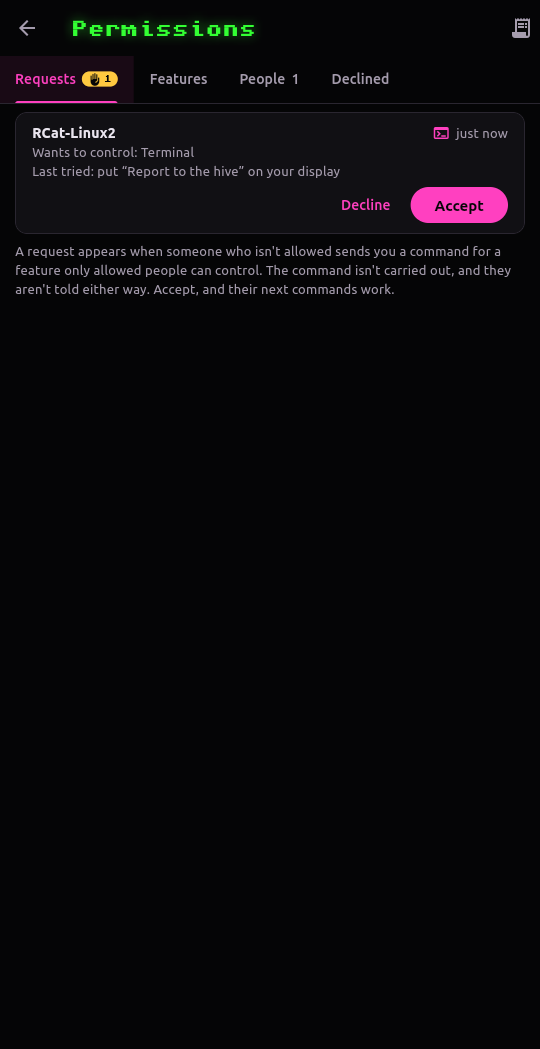
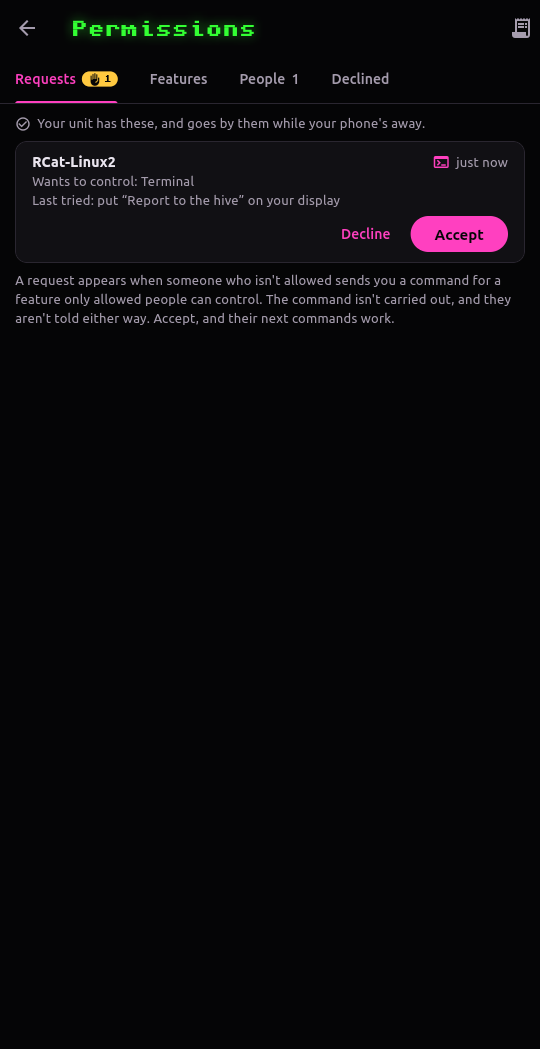
Docs: permissions kept by the app and given to the unit, two groups, and the unit's read-only Hive pages

Changed region(s): [[0.0296, 0.0915, 0.9481, 0.3051]]

diff --git a/docs/features/toys.md b/docs/features/toys.md
@@ -25,10 +25,9 @@ Left to right:
 - **Control**: a ring around the edge for each of the screen's controls, with the level on its knob.  Drag a knob around its ring to set the level.  Only the knobs respond, so you can swipe from anywhere else.  To start with there's a ring for each channel a connected toy follows, up to three, labelled *V1*, *V2* and so on.  Your app can lay them out differently: fewer rings, your own labels, or one ring driving several channels together (see [Screen controls](#screen-controls)).  The toy's name (or how many are connected) is in the middle.  **STOP** stops every toy, and any pattern or reaction, as soon as you touch it.
 - **Devices**: turn your toys on and they show up here while it's on screen.  Tap one to connect (it turns green), or tap it again to stop it and disconnect.  Bluetooth only starts the first time it's needed.
 - **Patterns**: tap a pattern to play it, and tap it again to stop it.  The arrows at the top pick where it plays: on every channel, or on one control's channels.  **-**/**+** at the bottom set the speed.  While a pattern plays, each ring on the Control page sets how high its channels go, and a thin line inside the ring shows the level as it plays.  Six patterns are built in, and you can add your own (see [Patterns on the SD card](#patterns-on-the-sd-card)).
-- **React to**: drives every channel from your voice or how you move, on top of any pattern.  *Voice* follows how loud you talk.  *Moving* runs while you move and stops soon after you stop.  *Still* runs only once you've held still with the display upright for a second (set the display's [Rotation](settings.md#rotation) first, so upright is right).  *Motion* gets stronger the more you move, and *Tilt* the further you tilt from upright.  Tap the one that's on to turn it off.  The line under the list shows what it's sensing.  As with patterns, the rings on the Control page set how high each channel goes.  **STOP** turns the reaction off too.
+- **React to**: drives every channel from your voice or how you move, on top of any pattern.  *Voice* follows how loud you talk.  *Moving* runs while you move and stops soon after you stop.  *Still* runs only once you've held still with the display upright for a second (set the display's [Rotation](settings.md#rotation) first, so upright is right).  *Motion* gets stronger the more you move, and *Tilt* the further you tilt from upright.  Tap the one that's on to turn it off: channels with no pattern then go back to 0.  Others can set different channels to different reactions from the app, and each one that's followed is lit.  The line under the list shows what it's sensing.  As with patterns, the rings on the Control page set how high each channel goes.  **STOP** turns the reaction off too.
 - **Options**: *Hold*: on, a control keeps its level when you let go of its knob; off, it springs back to 0.
-- **Others** (*Hive Commands*): who may send commands to your toys over the [comms](comms.md) (see [Commands from others](#commands-from-others)).  *Off*, *Ask* or *Accept* says whose commands are done: nobody's, those you've allowed, or anyone's.  Tap someone to allow them (they turn green, with a tick), or tap again to stop allowing them; hold them to take them off the list.  The line at the bottom says who sent the last command that was done.
-- **Ignore** (the last): commands to ignore whoever they're from: *Broadcasts* (and those to the open direct channel) and those *To a whole channel*.
+- **Others** (*Hive Commands*, the last): who may send commands to your toys over the [comms](comms.md) (see [Commands from others](#commands-from-others)), as your app has set it: *Off*, *Ask* (those you've allowed, listed with a tick) or *Anyone*, and what's ignored.  **Turn off** stops anyone's commands at once, without your phone; switch it back on in the app.  The line at the bottom says who sent the last command that was done.
 
 ## Screen controls
 
@@ -40,17 +39,19 @@ The round screen only has room for a few rings, so what they do is set up in you
 
 Others in your hive can send commands to your toys with **HiveMind Control** in the DroneLab app (see [HiveMind Control](../app/control.md)): stop, set channels to a level (several at once, moving together), play a pattern on channels, change the patterns' speed, or have channels react (*React to*) to your own voice or movement, as your board senses them.  Which channel each of your toys follows, and the screen's controls, are set in the app's [Setup: Toys](../app/control.md#setup-toys).  They come over the Mumble server, through your phone, or board to board over [direct mode](comms.md#direct-mode).  Your board does them as if you'd used its own controls, and they stay set until they're changed: **STOP**, on the Control page, stops them as it stops everything else, and a STOP sent by someone else stops reactions too.
 
-Whose commands are done is up to you, with **Off**, **Ask** or **Accept** on the *Hive Commands* page, or under *From others* in the remote's *Toys* tab.  The app's [Permissions](../app/permissions.md) has the same settings, as *Nobody*, *Allowed* and *Anyone*, with requests to accept or decline and a log of every command:
+Whose commands are done is up to you, in the app's [Permissions](../app/permissions.md), as *Nobody*, *Allowed* or *Anyone*, with requests to accept or decline and a log of every command.  The app gives them to your board, which keeps the last it was given and goes by them while your phone's away (see [Your phone and your unit](../app/permissions.md#your-phone-and-your-unit)):
 
-- **Ask**, to start with: only those you've allowed are obeyed.  The first time someone sends you a command, they're added to the *Permissions* list, not allowed, and you tick them there.  Nothing is done until you've said yes.
-- **Accept**: everyone's commands are done, allowed or not.  Anyone new is still added to the list, so you can see who's been sending, and tick them for when you go back to Ask.
-- **Off**: commands are ignored, and nobody's added.  The list remembers up to 16 people, kept when the board's switched off.
+- **Ask** (*Allowed* in the app), to start with: only those you've allowed are obeyed.  The first time someone else sends you a command, your app makes it a request for you to accept or decline.  Nothing is done until you've said yes, and with your phone away, nothing is.
+- **Anyone**: everyone's commands are done, allowed or not.
+- **Off** (*Nobody*): commands are ignored.  **Turn off** on the *Hive Commands* page sets it here, on the board.
+
+Your board keeps up to 32 people from your app: those allowed something, and those you've muted.
 
 Each kind of thing others can control has its own permission and ticks: Vibe toys, and the [Terminal](terminal.md#messages-from-others) on your display, so someone can be allowed words on your display without being allowed near your toys.  More kinds are planned for HiveMind Control (e-stim, machines, and pictures and sounds on your display), each with its own permission too.  None of them is ever open to everyone to start with.
 
-The *Ignore* page, after it (and the same switches under *From others* in the remote), ignores some commands whoever they're from: **Broadcasts**, sent to everyone who can hear the sender (with those to the channel on the open direct channel, which anyone nearby can hear), and those **To a whole channel**.  With both on, only commands sent to you alone get through.  And anyone you've muted in the app is ignored, whatever's set here.
+Two more settings in Permissions ignore some commands whoever they're from: **Broadcasts**, sent to everyone who can hear the sender (with those to the channel on the open direct channel, which anyone nearby can hear), and those **To a whole channel**.  With both on, only commands sent to you alone get through.  And anyone you've muted in the app is ignored, whatever's set here.
 
-Someone's known by their identity, not their name: their DroneLab app makes a key pair the first time it runs and signs every command with it, and your board checks the signature (or your app does, for those that come over the server).  The list shows the first characters of their key beside their name, and it's the same person whether they're heard in cloud or direct mode.  Someone new using a name already on the list is marked ⚠: it's someone else with that name.  A command can't be recorded and played back later either, as each is numbered and an old one's dropped.
+Someone's known by their identity, not their name: their DroneLab app makes a key pair the first time it runs and signs every command with it, and your board checks the signature (or your app does, for those that come over the server).  It's the same person whether they're heard in cloud or direct mode, and the app marks someone new using a name it already knows with ⚠: it's someone else with that name.  A command can't be recorded and played back later either, as each is numbered and an old one's dropped.
 
 Your board also tells the others what you let them control: Vibe toys while they're on *Ask* or *Accept* and a toy is connected, with which channels your toys follow, and the [Terminal](terminal.md#messages-from-others) while it isn't *Off*.  It's said in its hello over direct mode, and by your app over the server, for their apps to grey out what you don't allow (see [What others see](../app/permissions.md#what-others-see)).  It doesn't say who you've allowed.
 

diff --git a/docs/app/control.md b/docs/app/control.md
@@ -28,7 +28,11 @@ The Vibe tab has three sections:
 
 - **LEVELS**: a slider for each channel, from 0 to 20.  20 is each output's top, whatever it is.  **Gang channels** moves several together: pick them, and one *GANG* slider drives them all, sent as one command, so they change at the same moment.  The others keep their own sliders.  The levels also set how high Patterns and React go.
 - **PATTERNS**: plays a pattern, in step, on the channels picked under *ON* (all those shown, to start with), if their unit has one by that name: the six built-in ones always do (*Wave*, *Pulse*, *Heartbeat*, *Climb*, *Surge*, *Wander*), and patterns from an SD card only if theirs has one with the same name.  The list is your unit's.  *SPEED* runs them from 25% to 300%.
-- **REACT**: the channels picked under *ON* follow **their own** voice or movement, as their unit senses it: *VOICE*, *MOVING*, *STILL*, *MOTION* or *TILT* (see [React to](../features/toys.md) for what each does).  It keeps going until it's changed or stopped.
+- **REACT**: the channels picked under *ON* follow **their own** voice or movement, as their unit senses it: *VOICE*, *MOVING*, *STILL*, *MOTION* or *TILT* (see [React to](../features/toys.md) for what each does).  It keeps going until it's changed or stopped.  Tap the one that's on to turn it off: channels with no pattern left go back to 0.
+
+<img src="../images/app/control_groups.png" width="300" alt="Patterns with Two groups on: group B, on V3, plays Pulse, while group A plays Wave on the other channels">
+
+**Two groups**, above *ON* in Patterns and React, splits the channels into **GROUP A** and **GROUP B**, each with its own pattern and reaction: say a *Wave* on V1 and V2 while V3 follows their *VOICE*.  Pick a group, then its channels; a channel is in one group at a time, and moving one into a group gives it that group's pattern and reaction.  A dot on a group's tab means it's playing or reacting.  Turning *Two groups* off puts group B's channels back with group A's.
 
 What you set stays set on their toys until it's changed or stopped, even once you've closed it.  Each command is noted in your conversation with them, and in theirs with you, with its channels: *set your toys on V1+V2 to 8*.  Each one is sent again a moment later, in case the first was lost.  Over the server, it needs a Mumble server from version 1.4 on.
 
@@ -50,7 +54,7 @@ Setup's **Toys**, under *Unit*, sets up your own toys for HiveMind Control.  It'
 
 <img src="../images/app/setup_toys.png" width="300" alt="Setup's Toys: an Edge on V1 and V2, a Nora vibrating on V1 and rotating on V3, and screen controls V1, V2 and V3">
 
-- **Channels**: each toy the unit has found, with **Connect** or **Disconnect**, and under it each of its outputs (each motor, the air pump and so on) with the channel it follows: **V1** to **V6**, or **None**, which leaves it to your own controls.  What anyone sends on V1 drives every output on V1, so two toys on one channel move together.  To start with, a toy's first output follows V1, its second V2.  The unit remembers it, by toy.  **Look for toys** finds toys turned on near the unit.  The line under them says which channels others can control.
-- **Screen controls**: the rings around your unit's [Toys](../features/toys.md#screen-controls) screen.  **Lay them out** for up to three, each with a label and the channels it drives together, so one ring can run V1 and V2 at once; **Save** sends them to the unit.  **One per channel** goes back to a ring for each channel a connected toy follows, as it starts.
+- **Channels**: each toy the unit has found, with **Connect** or **Disconnect**, and under it each of its outputs (each motor, the air pump and so on) with the channel it follows: **V1** to **V6**, or **None**, which leaves it to your own controls.  What anyone sends on V1 drives every output on V1, so two toys on one channel move together.  To start with, a toy's first output follows V1, its second V2.  The app keeps it, by toy, and gives it to your unit with your [permissions](permissions.md#your-phone-and-your-unit), so it holds while your phone's away.  **Look for toys** finds toys turned on near the unit.  The line under them says which channels others can control.
+- **Screen controls**: the rings around your unit's [Toys](../features/toys.md#screen-controls) screen.  **Lay them out** for up to three, each with a label and the channels it drives together, so one ring can run V1 and V2 at once; **Save** keeps them, and sends them to the unit.  **One per channel** goes back to a ring for each channel a connected toy follows, as it starts.
 
-The same mapping is under *Devices* in the [Remote](remote.md) tab's *Toys*.
+The [Remote](remote.md) tab's *Toys* shows the channel each output follows under *Devices*.

diff --git a/docs/app/permissions.md b/docs/app/permissions.md
@@ -1,6 +1,6 @@
 # Permissions
 
-Others in the hive can control parts of your unit: put words on its [Terminal](../features/terminal.md), or run your [Vibe toys](../features/toys.md).  **Permissions** is where you choose who can, see who's asking, and look back at every command that came.  The choices are kept on your unit, so they work whether or not your phone's with you.
+Others in the hive can control parts of your unit: put words on its [Terminal](../features/terminal.md), or run your [Vibe toys](../features/toys.md).  **Permissions** is where you choose who can, see who's asking, and look back at every command that came.  The choices are kept in the app, which gives them to your unit: your unit goes by the last it was given, so they work whether or not your phone's with you.
 
 Open it from *Setup*, or from the [links sheet](connecting.md#the-links-sheet) that pulls down from the status strip.  When someone's asking, a yellow raised hand with a count shows on the [status strip](README.md#the-status-strip), on the links sheet and in Setup.
 
@@ -25,11 +25,11 @@ Two more switches ignore some commands whoever they're from, allowed or not:
 
 With both on, only commands sent to you alone get through.
 
-**People** is everyone on your unit's list: anyone who's sent you a command, or been allowed something.  Switch someone on to let them control the feature.
+**People** is everyone on your list: anyone who's sent you a command, or been allowed something.  Switch someone on to let them control the feature.
 
 ## People
 
-Everyone on your unit's list, with icons for what each is allowed.  Tap someone to choose everything they can control at once.  The remove button takes them off the list and allows them nothing: if they send you a command again, it comes in as a new request.
+Everyone on your list, with icons for what each is allowed.  Tap someone to choose everything they can control at once.  The remove button takes them off the list and allows them nothing: if they send you a command again, it comes in as a new request.
 
 People are known by their identity, not their name: their app signs each command with a key only it has.  So it's one entry whether they reach you over the server or direct, and nobody can pass as someone you've allowed by taking their name.  Someone using a name another person had first is marked ⚠.
 
@@ -44,7 +44,7 @@ A request appears when someone who isn't allowed sends you a command for a featu
 
 <img src="../images/app/permissions_accept.png" width="300" alt="Allow Hal to control: Vibe ticked, Terminal not, and Allow all or Allow">
 
-A request is only made while the app's linked to your unit.  One is taken back by itself if you allow them on the unit, or set the feature to *ANYONE*.
+A request is only made while the app's linked to your unit: with your phone away, commands from people you haven't allowed simply aren't carried out.
 
 When one comes in:
 
@@ -82,6 +82,10 @@ Each unit tells the others what its wearer lets others control: over the server 
 
 On someone's card ([Voice](voice.md#whos-there)), *Lets others control* shows an icon for each.  Tap it for the whole list: *Anyone can control it*, *Only people they allow*, or *Not available*.  See [HiveMind Control](control.md#sending) for how it's used.
 
-## On the unit and the remote
+## Your phone and your unit
 
-The same settings are on the unit itself, on each feature's *Others* pages (the Toys feature's *Hive Commands*, the Terminal's *Hive Messages*), and under *From others* in the [Remote](remote.md) tab.  They're one set of settings, kept on the unit: change them anywhere and the others follow.
+Your permissions, who you've muted, and how your toys are [set up](control.md#setup-toys) are kept in the app, and sent to your unit whenever they change and each time it connects.  The unit keeps the last it was given and goes by them on its own, so commands still work while your phone's away.  The line at the top of Permissions says whether your unit has them: *Your unit has these*, *Sending these to your unit*, or *Kept on your phone* while it isn't connected.
+
+On the unit itself, each feature's *Others* page (the Toys feature's *Hive Commands*, the Terminal's *Hive Messages*) shows its setting and who's allowed, but you change them here.  The one thing you can do on the unit is **Turn off**: it stops that feature taking anyone's commands straight away, without your phone.  The app picks that up as soon as it's connected, and you switch it back on here.
+
+A new phone, or the app installed again, takes on the unit's permissions the first time it connects, rather than starting afresh.

diff --git a/docs/features/phone-remote.md b/docs/features/phone-remote.md
@@ -12,9 +12,9 @@ The *WiFi Hotspot Remote* page in [Settings](settings.md) lets people run the di
 The page has five tabs:
 
 - **Screen**: what's on the display now, with arrows to step through every page.  Under them, the [Visualizer](visualizer.md)'s styles, to switch to one and show it.  Then every feature's pages are listed, to jump straight to one.
-- **Toys**: a slider for each of the screen's [controls](toys.md#screen-controls), the patterns and their speed, the reactions, a list of toys to connect, with the [channel](toys.md#channels) each output follows, and a big **STOP** at the bottom that stops every toy the moment it's touched.  *From others* says whose commands your devices take over comms, *Off*, *Ask* (those allowed) or *Accept* (anyone), whether to *Ignore broadcasts* or *Ignore channel-wide* ones, and lists who's sent them (see [Commands from others](toys.md#commands-from-others)).
+- **Toys**: a slider for each of the screen's [controls](toys.md#screen-controls), the patterns and their speed, the reactions, a list of toys to connect, with the [channel](toys.md#channels) each output follows, and a big **STOP** at the bottom that stops every toy the moment it's touched.
 - **Sound**: the voice effect, with *Play on speaker*, the presets, *Effect Volume* as a slider with buttons to step it by 1% or 5%, and *Loud room*.  Then the [voice ring](voice-ring.md), on or off and its color.  Under it, the sound player: the track playing, play and pause, the next and last tracks, a bar to move through the track, its volume, the repeat modes, *Play at startup*, and every track, to play one with a tap.
-- **Terminal**: type a message and *Send* it (or press Enter) to show it on the Terminal.  *Switch to it* (on to start with) brings the Terminal on screen when you send.  *Add a line* puts the message under what's there instead of replacing it, dropping the oldest lines when it's full.  *Clear* empties it, and *Letter size* picks how big it's shown.  The last few messages are listed under it, to send again with a tap.  *From others* says who may put words on it over comms, *Off*, *Ask* or *Accept*, and which to ignore (see [Messages from others](terminal.md#messages-from-others)).
+- **Terminal**: type a message and *Send* it (or press Enter) to show it on the Terminal.  *Switch to it* (on to start with) brings the Terminal on screen when you send.  *Add a line* puts the message under what's there instead of replacing it, dropping the oldest lines when it's full.  *Clear* empties it, and *Letter size* picks how big it's shown.  The last few messages are listed under it, to send again with a tap.
 - **Setup**, always the last tab: the display's [Settings](settings.md).  The battery's charge and how long the display's been on, then the brightness, the rotation, and what it shows at startup, and *Start at power-up* for the remote itself (see below).  The Battery Log and switching the WiFi Hotspot Remote off are only on the display: so nobody can forget the board's battery curve, or turn the remote off from under the phones.
 
 The display and the phones control the same things, so each shows what the others do.  Up to four phones can join at once, and the title on the display says how many have.  Adding `#screen`, `#toys`, `#sound`, `#term` or `#setup` to the page's address opens that tab.

diff --git a/docs/features/terminal.md b/docs/features/terminal.md
@@ -18,14 +18,8 @@ It can be picked to show when the display turns on, in [Settings](settings.md#st
 
 Others in your hive can put words on your Terminal from the DroneLab app, from their conversation with you, or with a channel you're on, in its [Text](../app/text.md#their-display) tab, in cloud or [direct mode](comms.md#direct-mode).  They have the same choices you do on the remote: the letter size, adding a line or replacing what's there, switching the display to the Terminal or not, and clearing it.  It shows just as they typed it, with no name, but their name is noted in your app's conversation with them, and on the *Hive Messages* page.
 
-You choose who can, on the Terminal's second page, *Hive Messages*, with **Off**, **Ask** or **Accept**:
+You choose who can in the app's [Permissions](../app/permissions.md), with requests to accept or decline and a log of every command: **Ask** (*Allowed*), to start with, only those you've allowed; **Anyone**; or **Off** (*Nobody*).  It can also ignore **Broadcasts**, sent to everyone who can hear the sender (with those to the channel on the open direct channel, which anyone nearby can hear), and those **To a whole channel**.  Anyone you've muted in the app is ignored too.  Your unit keeps the last settings your app gave it, so they hold while your phone's away.
 
-- **Ask**, to start with: only those you've allowed.  Anyone new is added to the list under it, not allowed, and what they send doesn't show.  Tap them to allow them (or tap again to stop), or hold them to take them off the list.
-- **Accept**: anyone's words show.  New people are still added to the list.
-- **Off**: nobody's words show, and nobody's added.
-
-The page after it, *Ignore*, ignores some whoever they're from: **Broadcasts**, sent to everyone who can hear the sender (with those to the channel on the open direct channel, which anyone nearby can hear), and those **To a whole channel**.  Anyone you've muted in the app is ignored too.
-
-The same choice and list are under *From others* in the remote's Terminal tab, and in the app's [Permissions](../app/permissions.md), with requests to accept or decline and a log of every command.  It works as the [Toys feature's](toys.md#commands-from-others) list does, but is a list of its own, so someone can be allowed to put words on your display without being allowed near your toys.  Texts from others in the app need neither: they go to your app, not the display.
+The Terminal's second page, *Hive Messages*, shows the setting, who's allowed, and who sent the last message.  **Turn off** there stops anyone's words showing at once, without your phone; switch it back on in the app.  It works as the [Toys feature's](toys.md#commands-from-others) permission does, but is one of its own, so someone can be allowed to put words on your display without being allowed near your toys.  Texts from others in the app need neither: they go to your app, not the display.
 
 The Terminal's font is LVGL's 8x8 unscii font with each pixel drawn as a square block.  `tools/gen_terminal_font.py` makes `core/ui/terminal_font.c` from it.

diff --git a/docs/app/remote.md b/docs/app/remote.md
@@ -20,9 +20,9 @@ Once the unit's screwed into the mask, its display faces outward, where you can'
 The page is the unit's own, so it always matches the unit's firmware.  It has five tabs:
 
 - **Screen**: what's on the display now, with arrows to step through every page, the visualizer styles, and every feature's pages to jump straight to one.
-- **Toys**: your own [toys](../features/toys.md): a slider for each of the screen's controls, the patterns, the reactions, the toys with the channel each output follows, and a big **STOP**.  *From others* is the list of who can [control your toys](control.md#who-can-control-your-toys), also in [Permissions](permissions.md).
+- **Toys**: your own [toys](../features/toys.md): a slider for each of the screen's controls, the patterns, the reactions, the toys with the channel each output follows, and a big **STOP**.
 - **Sound**: the voice effect and its volume, the voice ring, and the sound player.  A low-profile unit has no speaker, so its voice effect isn't here: pick it as *HiveMind voice* in Setup, or on the unit.
-- **Terminal**: type a message onto your own display.  *From others* is who can [put words on it](text.md#who-can-put-words-on-your-display), *Off*, *Ask* or *Accept*, and the list of who's tried, also in [Permissions](permissions.md).
+- **Terminal**: type a message onto your own display.
 - **Setup**: the display's settings: brightness, rotation, what it shows at startup, and the battery.  The same settings are in the app's own Setup too, under [Display unit](#setup-display-unit).
 
 Each tab is described in full in [WiFi Hotspot Remote](../features/phone-remote.md), which is the same page.  The display and the phone control the same things, so each shows what the other does.
